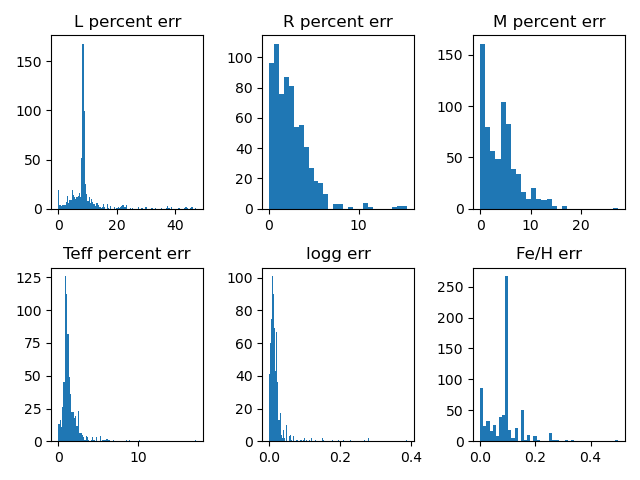
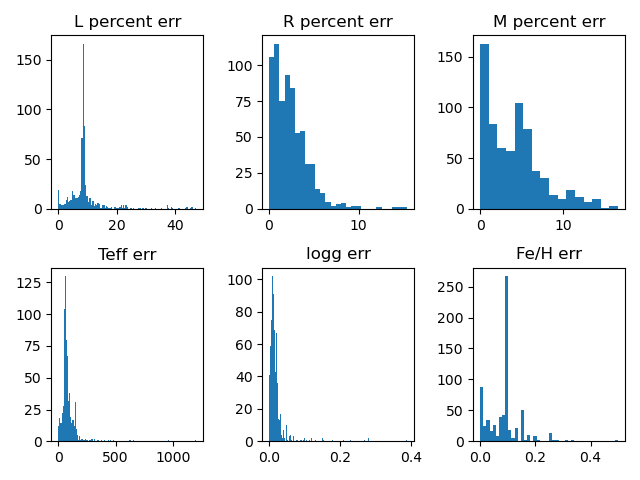
Mac coding

diff --git a/BayestarML/DataExploring/samplerMS.py b/BayestarML/DataExploring/samplerMS.py
@@ -5,14 +5,16 @@ import pandas as pd
 import numpy as np
 import matplotlib.pyplot as plt
 
-df = pd.read_csv("DataExploring/datos_todos_20260417.txt", sep="\t", comment="#")
+df = pd.read_csv("DataExploring/datos_todos_v20260505.txt", sep="\t", comment="#")
 
 check_params = ["eM1", "eR1", "elogg1", "eL1", "eFe/H1", "eTeff1"]
 df_all6_MS = df[(df["class"]=="MS") & 
                 (df["well_detached"]!=False) &
                 (df[check_params].notna().all(axis=1))]
 
+#file for MS stars with all 6 params and all binary systems well-detached
 df_all6_MS.to_csv("DataExploring/all6_MS.txt", index=False, na_rep="NA", sep="\t")
+print("All 6 MS: ", len(df_all6_MS))
 
 #adapted from Max
 #get mean errors for non-symmetric ones
@@ -26,10 +28,11 @@ df_err["percent_eM"] = 100 * df_err["eM1"] / df_all6_MS["M"]
 df_err["percent_eR"] = 100 * df_err["eR1"] / df_all6_MS["R"]
 df_err["percent_eTeff"] = 100 * df_err["eTeff1"] / df_all6_MS["Teff"]
 #make mask
-err_mask = (df_err["percent_eL"]<=50) & (df_err["percent_eR"]<=25)# & (df_err["percent_eM"]<=7) & (df_err["eTeff1"]<=100) & (df_err["elogg1"]<=0.05) & (df_err["eFe/H1"]<=0.15)
+err_mask = (df_err["percent_eL"]<=50) #& (df_err["percent_eR"]<=25)# & (df_err["percent_eM"]<=7) & (df_err["eTeff1"]<=100) & (df_err["elogg1"]<=0.05) & (df_err["eFe/H1"]<=0.15)
 
 
 df_good_MS = df_all6_MS[err_mask]
+print("All 6 MS, err cleaned: ", len(df_good_MS))
 df_good_errs = df_err[err_mask]
 df_good_MS.to_csv("DataExploring/good_MS.txt", index=False, na_rep="NA", sep="\t")
 
@@ -44,8 +47,8 @@ ax[0,1].set_title("R percent err")
 ax[0,2].hist(df_good_errs["percent_eM"], bins='fd')
 ax[0,2].set_title("M percent err")
 
-ax[1,0].hist(df_good_errs["percent_eTeff"], bins='fd')
-ax[1,0].set_title("Teff percent err")
+ax[1,0].hist(df_good_errs["eTeff1"], bins='fd')
+ax[1,0].set_title("Teff err")
 
 ax[1,1].hist(df_good_errs["elogg1"], bins='fd')
 ax[1,1].set_title("logg err")

diff --git a/BayestarML/exec_trainer.py b/BayestarML/exec_trainer.py
@@ -45,7 +45,7 @@ def mass_train_GP(M_mean, M_var):
 
     trace = train(model,
                   "Outputs/GP_mass_full_w_int_lognorm_"+str(M_mean)+"_"+str(M_var)+".nc",
-                  draw=100, chains=2)
+                  draw=1000, chains=4)
     # trace = az.from_netcdf("Radius_Outputs/GP_hetero_new_2026_mass_4param_gamma_etav_80_40.nc")
 
     # trace.extend(pm.compute_log_likelihood(trace, model=model, var_names='y'))
@@ -99,7 +99,7 @@ def radius_train_GP(M_mean, M_var):
 
     trace = train(model,
                   "Outputs/GP_radius_full_w_int_lognorm_"+str(M_mean)+"_"+str(M_var)+".nc",
-                  draw=100, chains=2)
+                  draw=1000, chains=4)
     # trace = az.from_netcdf("Radius_output/GP_hetero_new_2026_mass_4param_gamma_etav_80_40.nc")
 
     # trace.extend(pm.compute_log_likelihood(trace, model=model, var_names='y'))
@@ -150,7 +150,7 @@ def mass_train_NN(n_hidden):
 
     trace = train(model,
                   "Outputs/NN_mass_M4_"+str(n_hidden)+"_nrns.nc",
-                  draw=100, chains=2)
+                  draw=1000, chains=4)
     # trace = az.from_netcdf("Radius_output/GP_hetero_new_2026_mass_4param_gamma_etav_80_40.nc")
 
     # trace.extend(pm.compute_log_likelihood(trace, model=model, var_names='y'))
@@ -250,13 +250,12 @@ if __name__ == '__main__':
     #pick which function(s) to run when file is run
     mass_train_GP(60,60)
     radius_train_GP(60,60)
-    mass_train_NN(15)
-    radius_train_NN(15)
+    #mass_train_NN(15)
+    #radius_train_NN(15)
     
     #from Gemini
     snapshot = tracemalloc.take_snapshot()
     top_stats = snapshot.statistics('lineno')
-    print("[ Top 10 memory consumers ]")
-    for stat in top_stats[:10]:
+    print("[ Top 5 memory consumers ]")
+    for stat in top_stats[:5]:
         print(stat)
-

diff --git a/BayestarML/constants.py b/BayestarML/constants.py
@@ -7,19 +7,19 @@ Created on Mon Jul 14 17:55:32 2025
 """
 
 MU = {
-    "Teff": 6067.880072992701,
-    "logg": 4.178456265337591,
-    "Meta": -0.06987974452554745,
-    "L": 16.525694635036494,
-    "mass": 1.18279450729927,
-    "radius": 1.5479431569343067,
+    "Teff": 6072.57519125683,
+    "logg": 4.193200789444444,
+    "Meta": -0.07053551912568307,
+    "L": 16.45371402003643,
+    "mass": 1.181416320582878,
+    "radius": 1.51961116575592,
 }
 
 SIGMA = {
-    "Teff": 1192.6013772679069,
-    "logg": 0.25627695642565473,
-    "Meta": 0.20605187438223188,
-    "L": 1279.56842233054806,
-    "mass": 0.3833135161073721,
-    "radius": 0.5628287905616655,
+    "Teff": 1205.051601132724,
+    "logg": 0.2553906001142609,
+    "Meta": 0.20752332990350436,
+    "L": 279.32073014970314,
+    "mass": 0.38674505662608444,
+    "radius": 0.5666770503588241,
 }

diff --git a/BayestarML/DataExploring/good_MS_explorer.py b/BayestarML/DataExploring/good_MS_explorer.py
@@ -3,7 +3,6 @@ JK 27/04/26
 """
 import pandas as pd
 import matplotlib.pyplot as plt
-from preprocess import return_train_test
 import seaborn as sns
 
 df = pd.read_csv("DataExploring/good_MS.txt", sep='\t')
